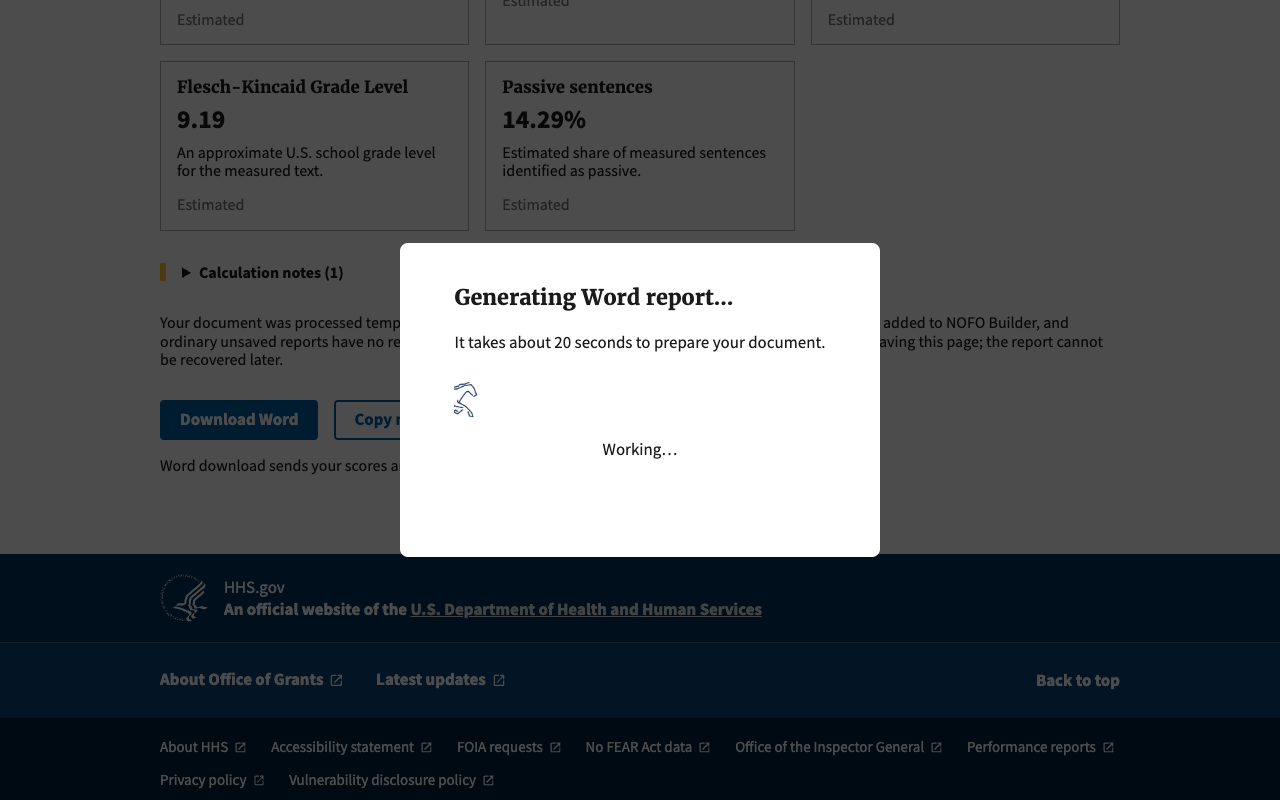
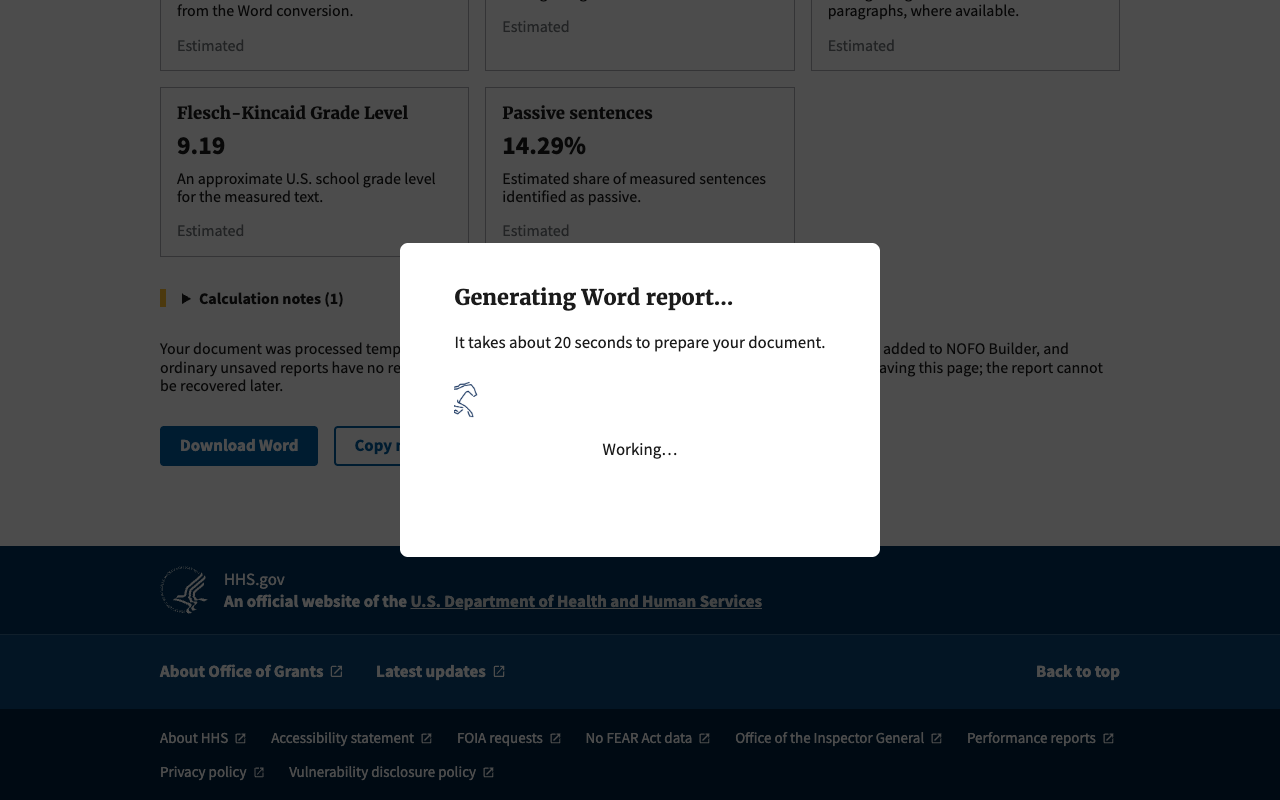
feat: explain text measured in Checker Word reports

diff --git a/nofos/bloom_nofos/templates/readability_word_report.html b/nofos/bloom_nofos/templates/readability_word_report.html
@@ -20,7 +20,29 @@
   {% endfor %}
 
   <h2 style="font-size: 14pt;">Text measured</h2>
-  <p>{{ scope }} Sentence-based scores use complete sentences and exclude fragments,
-    including some headings, labels, list items, and table cells.</p>
+  <p>{{ scope }}{% if details.pages_with_text is not None and details.pages_total %} {{ details.pages_with_text }} of {{ details.pages_total }} pages contained extractable text.{% elif details.pages_analyzed is not None and details.pages_total %} {{ details.pages_analyzed }} of {{ details.pages_total }} pages were processed.{% endif %}</p>
+  {% if details.exclusions %}
+    <p><strong>Words skipped in recognized sections</strong></p>
+    <ul>
+      {% for label, count in details.exclusions %}
+        <li>{{ label }}: {{ count }} word{{ count|pluralize }}</li>
+      {% endfor %}
+    </ul>
+  {% elif details.no_exclusions %}
+    <p>The checker recorded no words skipped in those categories.</p>
+  {% endif %}
+  <p>
+    {% if details.recovered_word_count is not None %}Word count covers {{ details.recovered_word_count }} recovered words. {% endif %}
+    {% if details.sentence_word_count is not None and details.complete_sentence_count is not None %}
+      Sentence-based scores use {{ details.sentence_word_count }} words in {{ details.complete_sentence_count }} complete sentence{{ details.complete_sentence_count|pluralize }}.
+    {% else %}
+      Sentence-based scores use complete sentences.
+    {% endif %}
+    {% if details.excluded_word_count is not None %}
+      They exclude {{ details.excluded_word_count }} words in fragments such as some headings, labels, list items, and table cells.
+    {% else %}
+      They exclude fragments such as some headings, labels, list items, and table cells.
+    {% endif %}
+  </p>
 </body>
 </html>

diff --git a/nofos/bloom_nofos/templates/pdf_readability.html b/nofos/bloom_nofos/templates/pdf_readability.html
@@ -127,14 +127,11 @@
           {% if word_export_report %}
           {% include "includes/document_progress_styles.html" %}
           {% url 'pdf_readability_word_export' as metrics_word_url %}
-          {% include "includes/docx_download_button_form.html" with action_url=metrics_word_url id_suffix="-readability-metrics" button_label="Download Word" primary=True modal_heading="Generating Word report…" button_description="readability-word-export-note" readability_metrics=True report_token=word_export_report %}
+          {% include "includes/docx_download_button_form.html" with action_url=metrics_word_url id_suffix="-readability-metrics" button_label="Download Word" primary=True modal_heading="Generating Word report…" readability_metrics=True report_token=word_export_report %}
           {% endif %}
           <button class="usa-button usa-button--outline" type="button" id="copy-readability-report">Copy metrics</button>
           <a class="usa-link text-bold" href="{% url 'pdf_readability' %}">Analyze another document</a>
         </div>
-        {% if word_export_report %}
-        <p id="readability-word-export-note" class="font-sans-xs no-print">Word download sends your scores and general measurement notes to GrabzIt for conversion.</p>
-        {% endif %}
         <p id="readability-copy-status" role="status" aria-live="polite" class="no-print"></p>
         <textarea id="readability-copy-fallback" class="readability-copy-fallback no-print" aria-label="Report text to copy manually" readonly hidden></textarea>
       </article>

diff --git a/nofos/bloom_nofos/templates/includes/docx_download_button_form.html b/nofos/bloom_nofos/templates/includes/docx_download_button_form.html
@@ -16,7 +16,6 @@
     class="usa-button{% if not primary %} usa-button--outline{% endif %}{% if not readability_metrics %} font-sans-2xs text-normal inline-block{% endif %}"
     aria-controls="docx-modal{{ id_suffix }}"
     {% if aria_label %}aria-label="{{ aria_label }}"{% endif %}
-    {% if button_description %}aria-describedby="{{ button_description }}"{% endif %}
     data-open-modal
   >
     {{ button_label|default:"Download<span class='hide-on-tablet'> Word</span>"|safe }}

diff --git a/nofos/nofos/readability_word_export.py b/nofos/nofos/readability_word_export.py
@@ -24,11 +24,12 @@ DRAFTING_METRICS = (("sentences_per_paragraph", "Sentences per paragraph"),)
 SCOPE_NOTES = {
     "word": (
         "Word count uses recovered Word text after skipping recognized covers, "
-        "tables of contents, and template instructions. Other draft material may count."
+        "tables of contents, template instructions, and Builder metadata. Other draft material may count. "
+        "Text in headers, footers, text boxes, and images may be missed."
     ),
     "generic": (
         "Word count uses text recovered from the PDF page layout. Some text may be "
-        "missed or read out of order."
+        "missed or read out of order. Draft instructions and placeholders may count."
     ),
     "pdf": (
         "Word count uses text recovered using the PDF’s structure tags. Some text "
@@ -36,6 +37,18 @@ SCOPE_NOTES = {
     ),
     "builder": "Word count includes the NOFO text measured by NOFO Builder.",
 }
+WORD_EXCLUSIONS = (
+    ("cover_total", "Cover pages"),
+    ("table_of_contents", "Table of contents"),
+    ("instruction", "Template instructions"),
+    ("metadata", "Builder metadata"),
+)
+SCOPE_COUNTS = (
+    "recovered_word_count",
+    "sentence_word_count",
+    "complete_sentence_count",
+    "excluded_word_count",
+)
 CHECKER_SALT = "readability-word-export.checker"
 
 
@@ -67,8 +80,7 @@ def report_token(request, payload, *, scope, salt):
     if not word_export_enabled(request):
         return ""
     metrics = payload.get("metrics") or {}
-    # Keep only the five formatted values and a fixed scope key. Package payloads
-    # can include source metadata and diagnostic text.
+    # Package payloads can include source metadata and diagnostic text.
     values = {
         metric_id: format_report_value(
             metric_id, (metrics.get(metric_id) or {}).get("value")
@@ -80,7 +92,40 @@ def report_token(request, payload, *, scope, salt):
         values["sentences_per_paragraph"] = format_report_value(
             "sentences_per_paragraph", components.get("sentences_per_paragraph")
         )
-    return signing.dumps({"values": values, "scope": scope}, salt=salt)
+    report = {"values": values, "scope": scope}
+    if scope != "builder":
+        report["details"] = checker_scope_details(payload, scope)
+    return signing.dumps(report, salt=salt)
+
+
+def scope_counts(source, keys):
+    return {
+        key: source[key]
+        for key in keys
+        if type(source.get(key)) is int and source[key] >= 0
+    }
+
+
+def checker_scope_details(payload, scope):
+    details = scope_counts(payload.get("scope") or {}, SCOPE_COUNTS)
+    if scope == "word":
+        excluded = scope_counts(
+            payload.get("word_exclusions") or {}, (key for key, _ in WORD_EXCLUSIONS)
+        )
+        if excluded:
+            details["exclusions"] = [
+                (label, excluded[key])
+                for key, label in WORD_EXCLUSIONS
+                if excluded.get(key)
+            ]
+            details["no_exclusions"] = len(excluded) == len(
+                WORD_EXCLUSIONS
+            ) and not any(excluded.values())
+    else:
+        details.update(
+            scope_counts(payload, ("pages_analyzed", "pages_with_text", "pages_total"))
+        )
+    return details
 
 
 def checker_report_token(request, report):
@@ -125,6 +170,7 @@ def download_report(request, *, salt, nofo=None):
                     (label, values[key]) for key, label in DRAFTING_METRICS
                 ],
                 "scope": SCOPE_NOTES[report["scope"]],
+                "details": report.get("details", {}),
                 "title": nofo.title if nofo else "",
                 "number": nofo.number if nofo else "",
             },

diff --git a/nofos/nofos/tests_nofos/test_readability_word_export.py b/nofos/nofos/tests_nofos/test_readability_word_export.py
@@ -93,6 +93,60 @@ class ReadabilityWordExportTests(TestCase):
         )
         self.assertNotIn("Content-Disposition", response)
 
+    def test_checker_report_matches_for_signed_in_and_signed_out_uploads(self):
+        user = BloomUser.objects.create_user(
+            email="checker@example.com", password="test-password", group="bloom"
+        )
+        signed_in = Client()
+        signed_in.force_login(user)
+        exports = []
+        for client in (Client(), signed_in):
+            page = client.post(
+                reverse("pdf_readability"),
+                {"pdf": SimpleUploadedFile("draft.docx", synthetic_docx())},
+            )
+            self.assertContains(page, "Download Word")
+            response = client.post(
+                reverse("pdf_readability_word_export"),
+                {"report": page.context["word_export_report"]},
+            )
+            self.assertEqual(response.content, VALID_DOCX)
+            exports.append(self.grabzit.HTMLToDOCX.call_args.args[0])
+        self.assertEqual(*exports)
+
+    def test_checker_report_uses_only_allowed_measurement_counts(self):
+        from django.test import RequestFactory
+
+        from nofos.readability_word_export import checker_report_token
+
+        request = RequestFactory().get("/")
+        report = {
+            "profile": "word",
+            "scope": {
+                "recovered_word_count": 42,
+                "sentence_word_count": 0,
+                "complete_sentence_count": 0,
+                "excluded_word_count": 42,
+            },
+            "word_exclusions": {"cover_total": 5, "instruction": "private text"},
+            "coverage": "private text",
+        }
+        url = reverse("pdf_readability_word_export")
+        self.client.post(url, {"report": checker_report_token(request, report)})
+        html = self.grabzit.HTMLToDOCX.call_args.args[0]
+        self.assertIn("42 recovered words", html)
+        self.assertIn("0 words in 0 complete sentences", html)
+        self.assertIn("Cover pages: 5 words", html)
+        self.assertNotIn("private text", html)
+
+        report.update(
+            profile="generic", pages_with_text=2, pages_analyzed=5, pages_total=5
+        )
+        self.client.post(url, {"report": checker_report_token(request, report)})
+        html = self.grabzit.HTMLToDOCX.call_args.args[0]
+        self.assertIn("2 of 5 pages contained extractable text", html)
+        self.assertNotIn("Cover pages: 5 words", html)
+
     def test_builder_report_uses_panel_values_and_enforces_record_access(self):
         user = BloomUser.objects.create_user(
             email="editor@example.com",

diff --git a/nofos/nofos/pdf_readability_worker.py b/nofos/nofos/pdf_readability_worker.py
@@ -160,6 +160,7 @@ def _safe_result(result, profile_kind: str, page_count: int) -> dict:
         ),
         "reliability": reliability,
         "pages_analyzed": pages_analyzed,
+        "pages_with_text": pages_with_text,
         "pages_total": page_count,
         "coverage": f"{pages_with_text} of {page_count} pages contain extractable text",
         "warnings": warnings,
@@ -184,6 +185,7 @@ def _safe_result(result, profile_kind: str, page_count: int) -> dict:
             + report["word_exclusions"]["cover_position"]
         )
         report.pop("pages_analyzed")
+        report.pop("pages_with_text")
         report.pop("pages_total")
         report["coverage"] = (
             "Word body text converted to HTML; page counts are not available."

diff --git a/documentation/review-evidence/1412/README.md b/documentation/review-evidence/1412/README.md
@@ -18,7 +18,7 @@ success. The simulated error could be dismissed while keeping the metrics open.
 
 The two browser downloads used the app's real export views and report template
 with a local LibreOffice converter in place of GrabzIt. The renderings show the
-downloaded DOCX files. The Checker report contained only scores, labels, and a
+downloaded DOCX files. The Checker report contained only scores, labels, measurement counts, and a
 general scope note. The Builder report also contained the sample NOFO title and
 opportunity number. Neither download contained the sample filename or body text.
 Live GrabzIt conversion and production rendering remain to be verified.
@@ -27,3 +27,22 @@ To reproduce, use a local app with synthetic data, enable readability for each
 surface and the readability Word export switch, and substitute a local DOCX
 converter at the GrabzIt client boundary. Open each surface and download the
 metrics report. See [Word export behavior and rollout](../../DOCX_EXPORT.md#readability-metrics-reports).
+
+## Standalone report variations
+
+The Checker shows the same **Download Word** action to everyone who can use
+the tool. A signed-in session and a signed-out session downloaded a report
+for the same synthetic Word upload. The HTML sent for conversion was identical
+in both sessions. See the [signed-out actions](checker-after.png) and
+[signed-in actions](checker-signed-in.png).
+
+These single-page examples use synthetic analysis results passed through the
+same standalone report template and rendered with the local converter.
+
+| Result | What the report shows |
+| --- | --- |
+| [Word with recognized exclusions](scope-examples/word-with-exclusions.png) | Counts for recognized cover pages, contents, instructions, and Builder metadata. |
+| [Word without recognized exclusions](scope-examples/word-without-exclusions.png) | A note that zero words were recorded as skipped in those categories. |
+| [Tagged PDF](scope-examples/tagged-pdf.png) | Extraction via structure tags and the number of pages with extractable text. |
+| [Layout-based PDF with partial coverage](scope-examples/layout-pdf-partial.png) | Reconstruction from layout and the proportion of pages with extractable text. |
+| [PDF with limited counts](scope-examples/pdf-limited-counts.png) | Pages processed when extractable-text coverage is unavailable, plus a qualitative explanation when sentence counts are unavailable. |

diff --git a/documentation/DOCX_EXPORT.md b/documentation/DOCX_EXPORT.md
@@ -29,8 +29,14 @@ validation, and attachment handling as full-document Word downloads.
 
 The app sends a small, dedicated report directly to GrabzIt with
 `HTMLToDOCX`. The request contains four Tier 2 clearance metrics, one Tier 1
-drafting measure, and a general description of the measurement scope. The
-standalone report excludes the uploaded filename, opportunity identifiers,
+drafting measure, and a description of the measurement scope. The standalone
+report includes available counts for recovered words, complete sentences and
+words excluded from sentence-based scores. Word uploads list counts for
+recognized sections that were skipped. PDF uploads identify the extraction
+method and report page coverage when available. The
+standalone Checker uses the same download action and report contents for
+signed-in and signed-out users who can access it. The report excludes the
+uploaded filename, opportunity identifiers,
 and source content. The Builder report adds the NOFO title and opportunity
 number when available, after checking access to the NOFO. Neither report
 forwards session cookies or gives GrabzIt a URL to fetch.

diff --git a/documentation/EDITOR_TASKS.md b/documentation/EDITOR_TASKS.md
@@ -1014,9 +1014,11 @@ then try again. If it's still unavailable, contact the checker operator.
    it does not mean a problem was detected in your upload.
 5. Select **Download Word**, when available, for a short report with the Tier 2
    clearance metrics and Tier 1 drafting measure. GrabzIt receives only the
-   metric values and general measurement notes for this conversion. You can
+   metric values, measurement counts, and scope notes for this conversion. You can
    also select **Copy metrics** before leaving the report. Use **Analyze
-   another document** for another upload.
+   another document** for another upload. The Checker offers the same Word
+   download and report contents whether you are signed in or signed out,
+   whenever you can access the tool.
 
 Profiles are selected automatically; there is no profile setting to choose.
 Check the report's **Measurement version** when comparing results. Version 0.7.0
